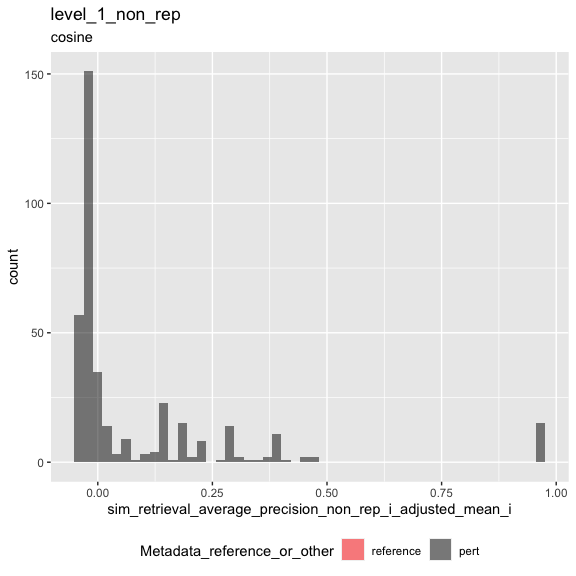
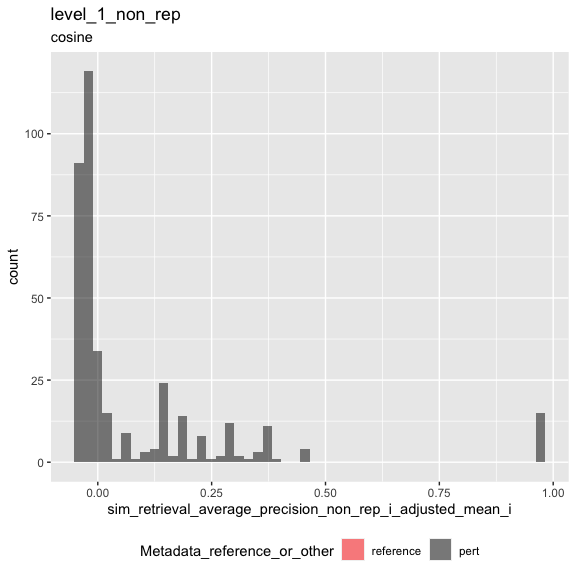
rerun

diff --git a/matric/results/d895866b/4.inspect_metrics.md b/matric/results/d895866b/4.inspect_metrics.md
@@ -373,21 +373,21 @@ null_thresholds
 |   m |   n | sim_stat_average_precision_null | sim_stat_r\_precision_null |
 |----:|----:|--------------------------------:|---------------------------:|
 |   1 | 287 |                       0.0333333 |                  0.0000000 |
-|   2 | 287 |                       0.0431152 |                  0.0000000 |
-|   3 | 287 |                       0.0515028 |                  0.0000000 |
-|   4 | 287 |                       0.0585291 |                  0.0000000 |
-|   9 | 287 |                       0.0781285 |                  0.1111111 |
-|   6 | 287 |                       0.0653010 |                  0.1666667 |
-|   5 | 287 |                       0.0604260 |                  0.0000000 |
-|   8 | 287 |                       0.0743180 |                  0.1250000 |
+|   2 | 287 |                       0.0428571 |                  0.0000000 |
+|   3 | 287 |                       0.0503230 |                  0.0000000 |
+|   4 | 287 |                       0.0548951 |                  0.0000000 |
+|   9 | 287 |                       0.0770358 |                  0.1111111 |
+|   6 | 287 |                       0.0666603 |                  0.1666667 |
+|   5 | 287 |                       0.0629076 |                  0.0000000 |
+|   8 | 287 |                       0.0742020 |                  0.1250000 |
 |   1 | 286 |                       0.0344828 |                  0.0000000 |
-|   4 | 286 |                       0.0557325 |                  0.0000000 |
-|   3 | 286 |                       0.0519497 |                  0.0000000 |
-|   5 | 286 |                       0.0623628 |                  0.0000000 |
-|   7 | 287 |                       0.0715317 |                  0.1428571 |
-|   2 | 286 |                       0.0448865 |                  0.0000000 |
-|   8 | 286 |                       0.0731923 |                  0.1250000 |
-|   6 | 286 |                       0.0642916 |                  0.1666667 |
+|   4 | 286 |                       0.0561336 |                  0.0000000 |
+|   3 | 286 |                       0.0513166 |                  0.0000000 |
+|   5 | 286 |                       0.0612312 |                  0.0000000 |
+|   7 | 287 |                       0.0697089 |                  0.1428571 |
+|   2 | 286 |                       0.0466172 |                  0.0000000 |
+|   8 | 286 |                       0.0750003 |                  0.1250000 |
+|   6 | 286 |                       0.0655341 |                  0.1666667 |
 
 ``` r
 join_vars <- c("m", "n")
@@ -494,7 +494,7 @@ result <-
 result$fig1
 ```
 
-![](4.inspect_metrics_files/figure-gfm/unnamed-chunk-27-1.png)<!-- -->
+![](4.inspect_metrics_files/figure-gfm/unnamed-chunk-31-1.png)<!-- -->
 
 ``` r
 level_1_metrics_null_adjusted %>%
@@ -505,8 +505,8 @@ level_1_metrics_null_adjusted %>%
 
 | above_threshold |   n |
 |:----------------|----:|
-| FALSE           | 219 |
-| TRUE            | 159 |
+| FALSE           | 217 |
+| TRUE            | 161 |
 
 ``` r
 result <-
@@ -519,7 +519,7 @@ result <-
 result$fig1
 ```
 
-![](4.inspect_metrics_files/figure-gfm/unnamed-chunk-29-1.png)<!-- -->
+![](4.inspect_metrics_files/figure-gfm/unnamed-chunk-33-1.png)<!-- -->
 
 ``` r
 level_1_metrics_null_adjusted %>%
@@ -544,7 +544,7 @@ result <-
 result$fig1
 ```
 
-![](4.inspect_metrics_files/figure-gfm/unnamed-chunk-31-1.png)<!-- -->
+![](4.inspect_metrics_files/figure-gfm/unnamed-chunk-35-1.png)<!-- -->
 
 ``` r
 result <-
@@ -557,7 +557,7 @@ result <-
 result$fig1
 ```
 
-![](4.inspect_metrics_files/figure-gfm/unnamed-chunk-32-1.png)<!-- -->
+![](4.inspect_metrics_files/figure-gfm/unnamed-chunk-36-1.png)<!-- -->
 
 ``` r
 level_1_metrics %>%
@@ -586,4 +586,4 @@ level_1_metrics %>%
   GGally::ggpairs(progress = FALSE)
 ```
 
-![](4.inspect_metrics_files/figure-gfm/unnamed-chunk-34-1.png)<!-- -->
+![](4.inspect_metrics_files/figure-gfm/unnamed-chunk-38-1.png)<!-- -->

diff --git a/matric/results/d895866b/0.knit-notebooks.md b/matric/results/d895866b/0.knit-notebooks.md
@@ -114,7 +114,11 @@ log_filename <- file.path(results_dir, "run.log")
 if (file.exists(log_filename)) {
   file.remove(log_filename)
 }
+```
 
+    ## [1] TRUE
+
+``` r
 log_appender(appender_tee(log_filename))
 
 log_info("Logging to {log_filename}...")
